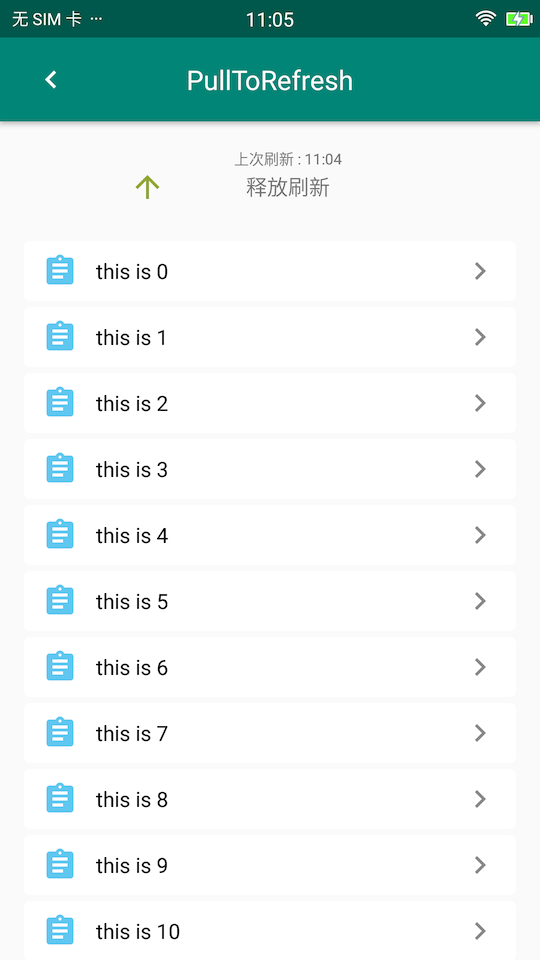
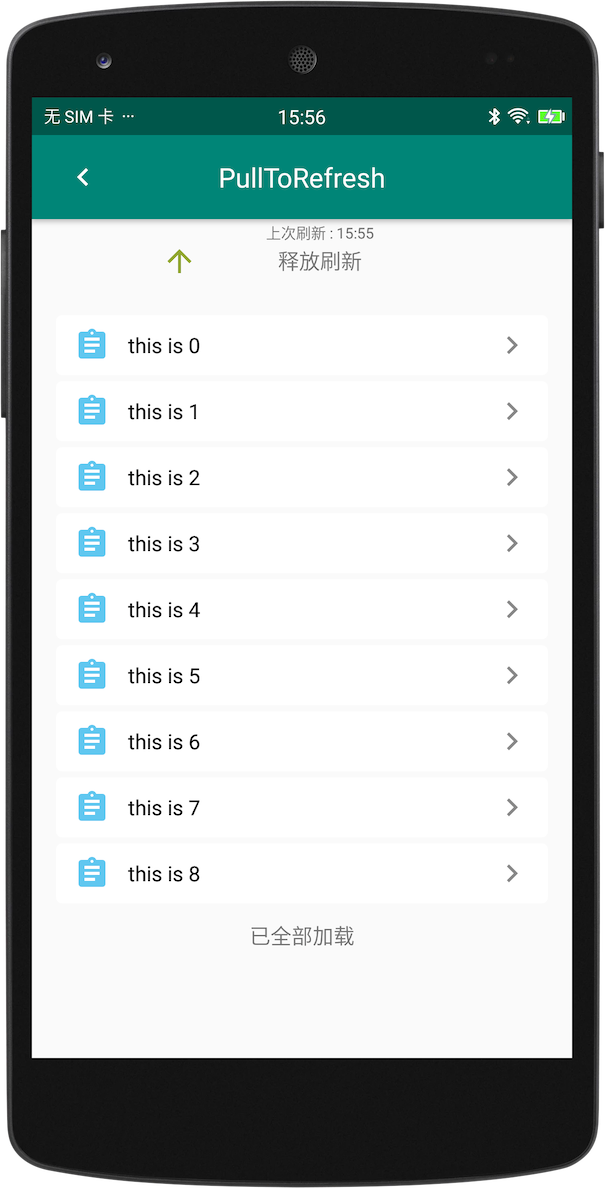
update README

diff --git a/app/src/main/java/jsc/exam/com/adapter/fragments/PullToRefreshFragment.java b/app/src/main/java/jsc/exam/com/adapter/fragments/PullToRefreshFragment.java
@@ -105,7 +105,7 @@ public class PullToRefreshFragment extends BaseFragment {
             public void run() {
                 pullToRefreshRecyclerView.completed();
                 List<ClassItem> items = new ArrayList<>();
-                int count = 7 + random.nextInt(12);
+                int count = 4 + random.nextInt(12);
                 for (int i = 0; i < count; i++) {
                     index++;
                     ClassItem item = new ClassItem();

diff --git a/README.md b/README.md
@@ -11,6 +11,11 @@ Scan QRCode to download demo application below:
 
 ![](/app/src/main/res/drawable/simple_adapter_qr_code.png)
 
+### Screenshots
+
+![SimpleAdapter](/output/shots/simple_adapter.png)
+![PullToRefreshRecyclerView](/output/shots/pull_to_refresh_recycler_view.png)
+
 ### 1、implementation
 You may implementation recycler view support package first.
 ```
@@ -448,12 +453,7 @@ public <H extends IHeader> void setHeader(@NonNull H header)
         };
 ```
 
-
-### 4、Screenshots
-
-![SimpleAdapter and PullToRefreshRecyclerView](/output/shots/pull_to_refresh_recycler_view.png)
-
-### 5、release log
+### 4、release log
 
 #### version:0.3.0
 1、优化BaseHeaderFooterAdapter.  
